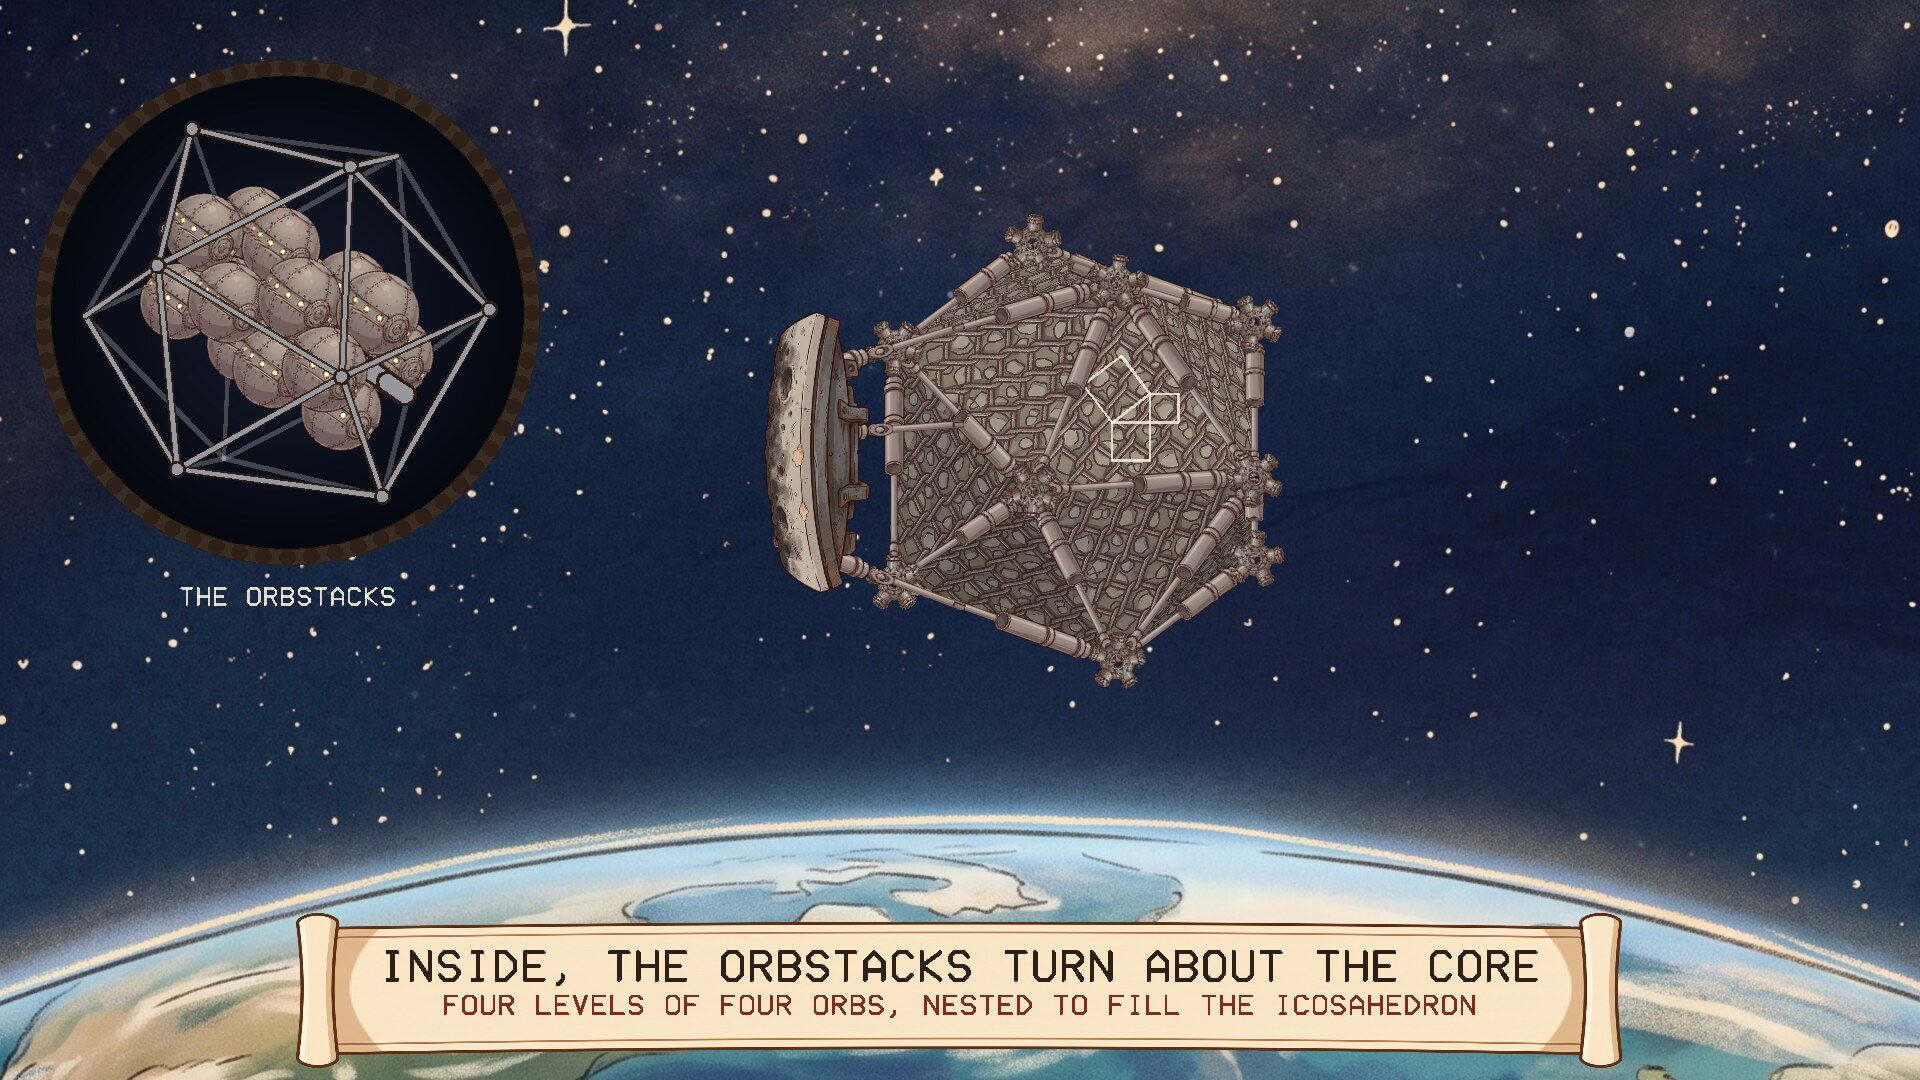
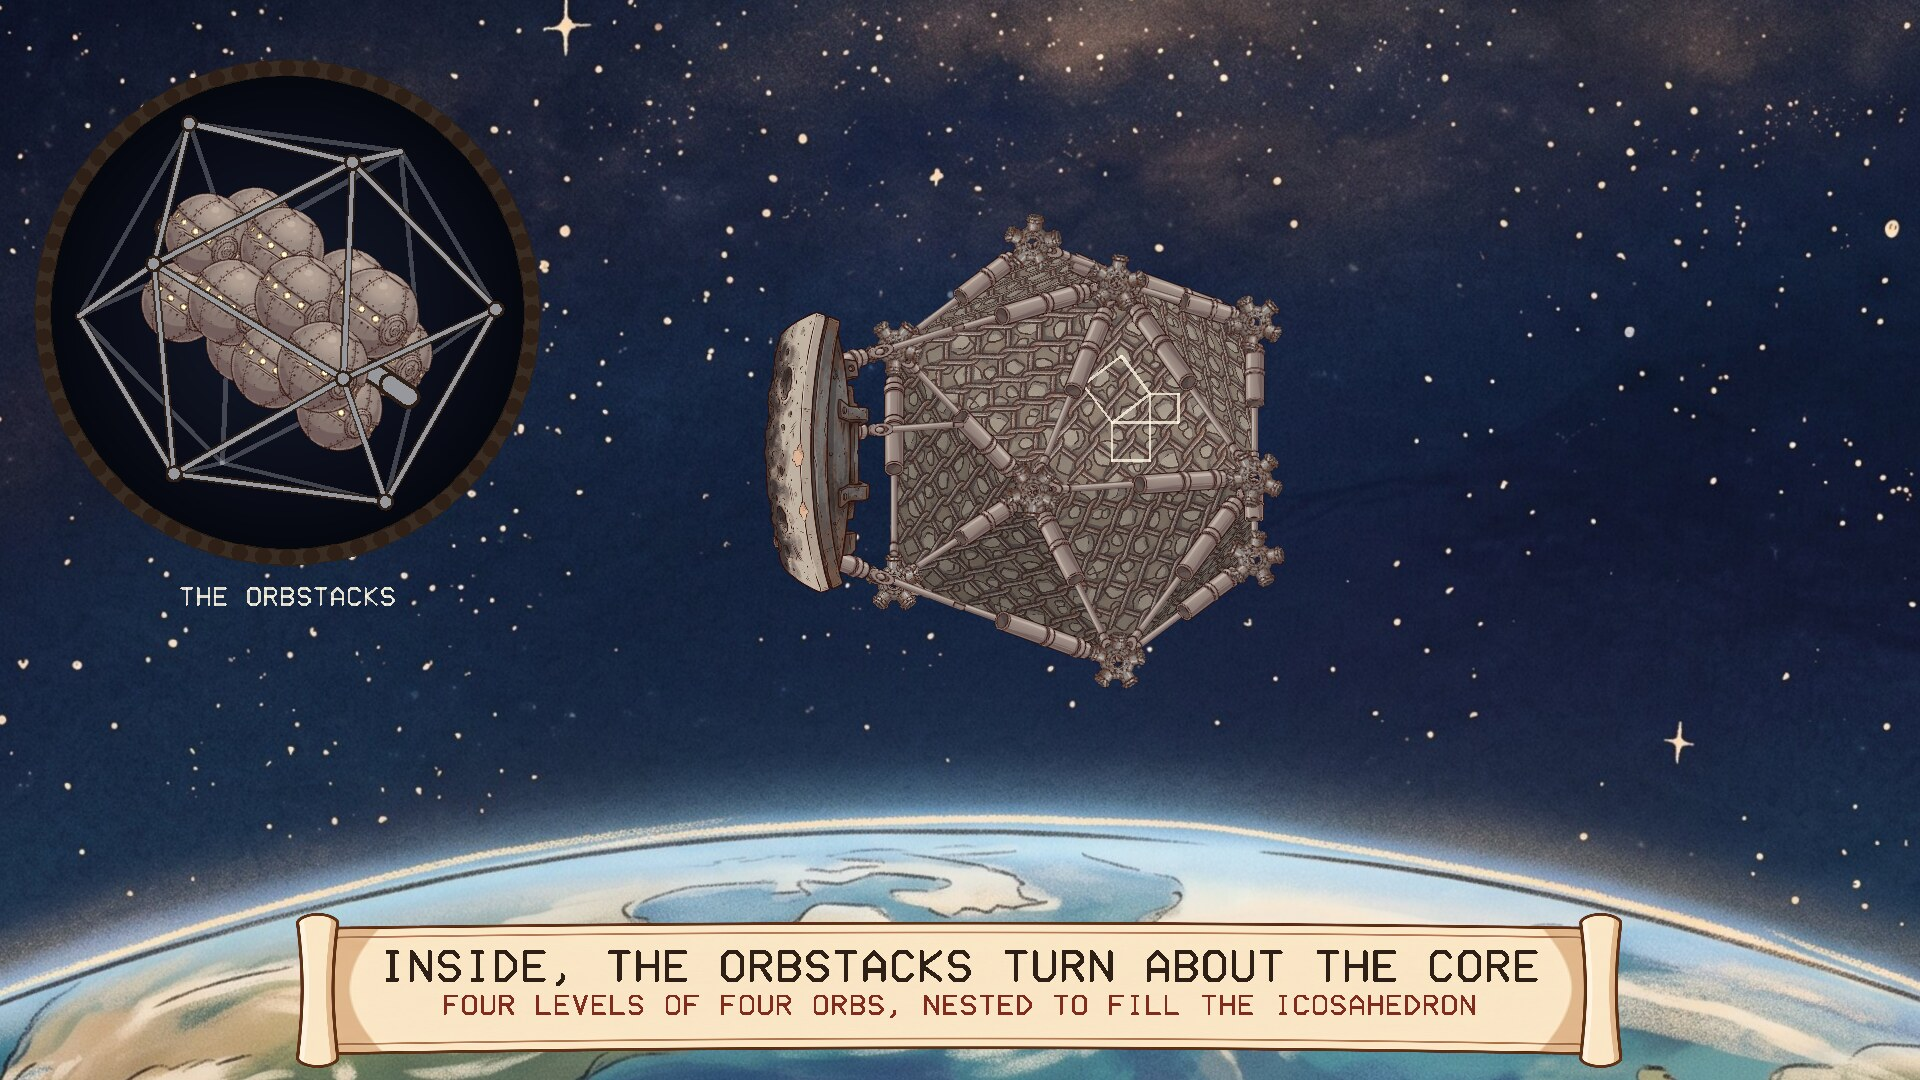
The orbstack packed more snugly

Changed region(s): [[0.0312, 0.0917, 0.2812, 0.4889]]

diff --git a/src/urnud.c b/src/urnud.c
@@ -544,7 +544,11 @@ static void draw_core(double cx, double cy, double R)
     double tilt = 1.05, ax = sin(tilt) * 0.82, ay = sin(tilt) * 0.57, az = cos(tilt);
     double ux = -0.57, uy = 0.82;                              /* across the Core, flat on the screen */
     double vx = -az * uy, vy = az * ux, vz = ax * uy - ay * ux; /* and the other way across */
-    double rho = R * 0.168, reach = rho * 1.4142, gap = rho * 1.682; /* touching in the ring, and nested level on level */
+    double rho = R * 0.18;
+    /* The four in a level touch and each level nests in the last; they are set a
+     * little closer than that, pressed into each other, the way they look when the
+     * whole stack is seen at once. */
+    double reach = rho * 1.4142 * 0.9, gap = rho * 1.682 * 0.9;
     struct { double x, y, z, hx, hy, deg; } o[16], t;
     for (int k = 0; k < 4; k++) for (int i = 0; i < 4; i++) {
         double along = (k - 1.5) * gap, a = spin + i * M_PI / 2 + k * M_PI / 4, c = cos(a), sn = sin(a);
@@ -560,7 +564,7 @@ static void draw_core(double cx, double cy, double R)
     /* the icosahedron they fill, the Core running from the middle of the stern face
      * to the middle of the bow face: a little over 5 orb-radii from the middle to a
      * corner is the size at which the stacked orbs just fit it */
-    double big = 5.2 * rho / RADIUS, fx[NV], fy[NV], fz[NV];
+    double big = 5.0 * rho / RADIUS, fx[NV], fy[NV], fz[NV];
     for (int i = 0; i < NV; i++) {
         fx[i] = cx + (ax * rest[i][0] + ux * rest[i][1] + vx * rest[i][2]) * big;
         fy[i] = cy + (ay * rest[i][0] + uy * rest[i][1] + vy * rest[i][2]) * big;

diff --git a/README.md b/README.md
@@ -71,7 +71,7 @@ Packages are on the [releases page](../../releases).
 
 ### Windows
 
-Run `DabanUrnud-Setup-1.0.7.exe`. It asks for administrator rights, because Windows
+Run `DabanUrnud-Setup-1.0.8.exe`. It asks for administrator rights, because Windows
 only lists screensavers that are in its own system folder. After that "The Daban
 Urnud" is in Screen Saver Settings with the others, already selected. Uninstall from
 Apps.
@@ -80,11 +80,11 @@ Apps.
 
 **Fedora, Nobara** (built on Fedora 44):
 
-    sudo dnf install ./daban-urnud-1.0.7-1.fc44.x86_64.rpm
+    sudo dnf install ./daban-urnud-1.0.8-1.fc44.x86_64.rpm
 
 **Debian, Ubuntu, Mint** (Ubuntu 24.04 / Debian 13 or later):
 
-    sudo apt install ./daban-urnud_1.0.7_amd64.deb
+    sudo apt install ./daban-urnud_1.0.8_amd64.deb
 
 From your next login it starts by itself after five minutes idle, and any key or
 mouse movement ends it. To start the watcher without logging out, or to change the
